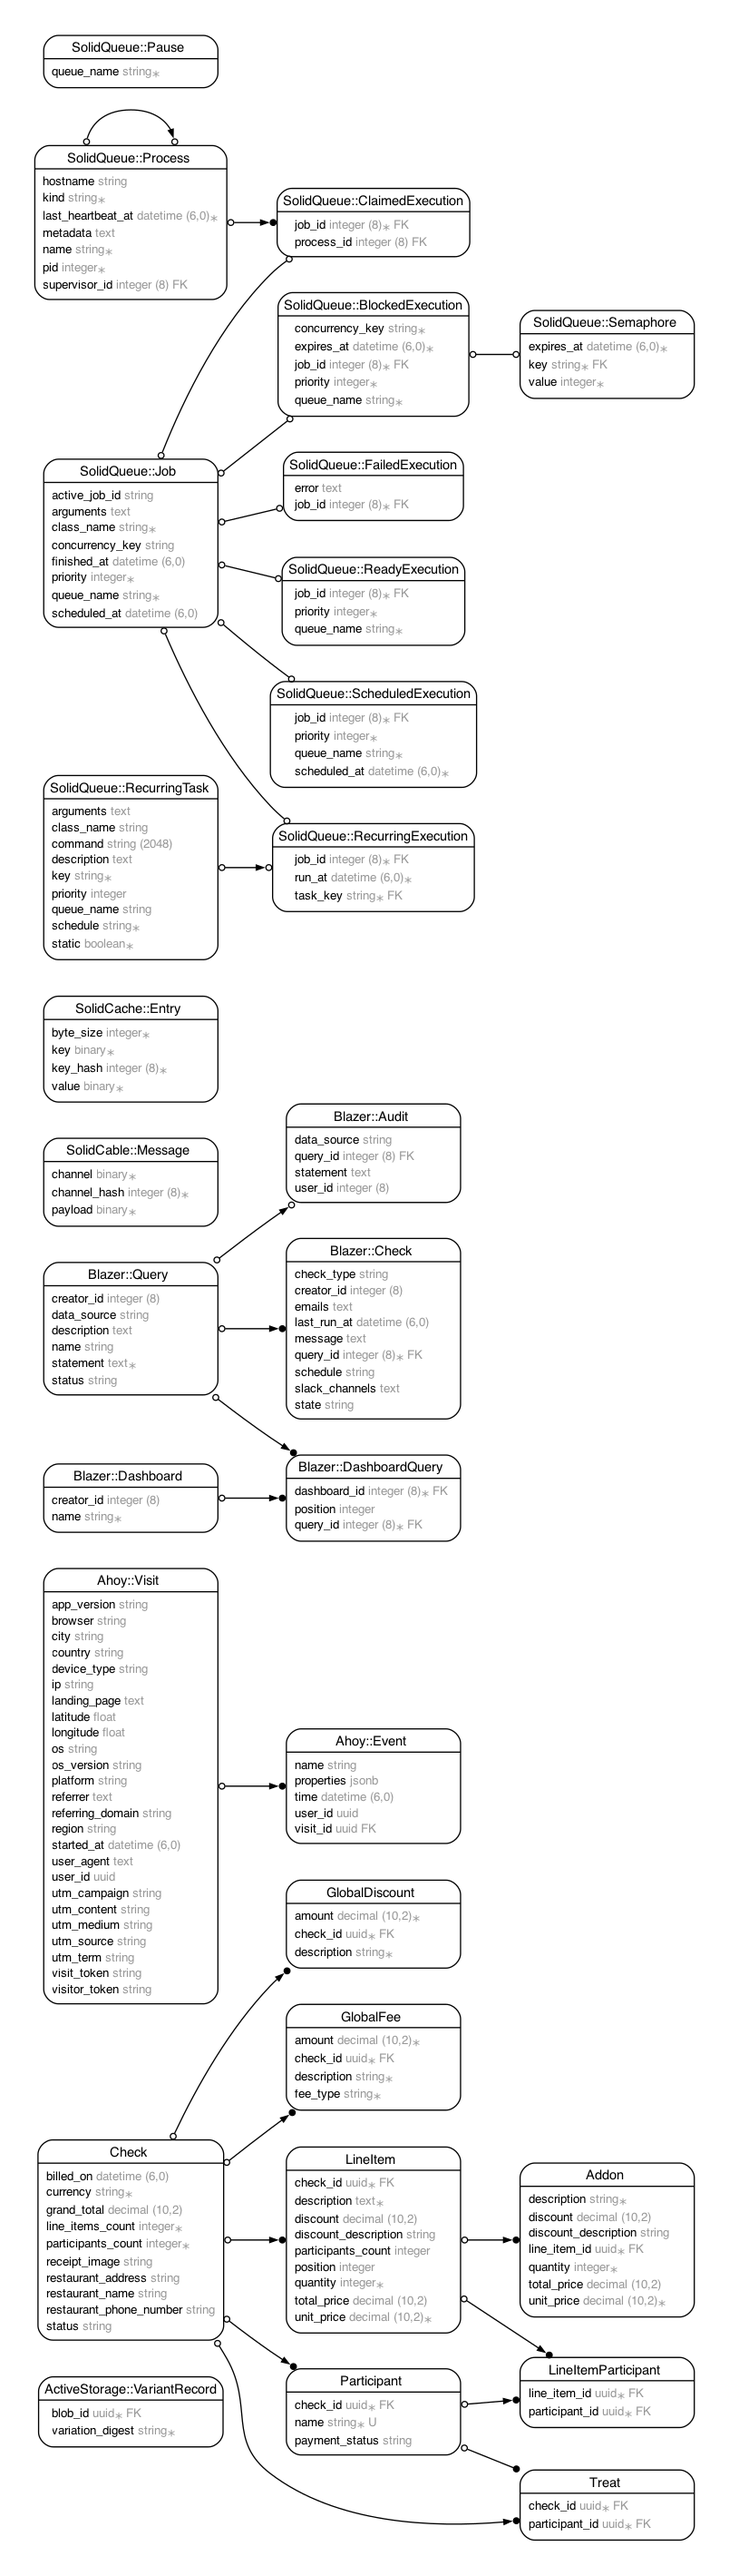
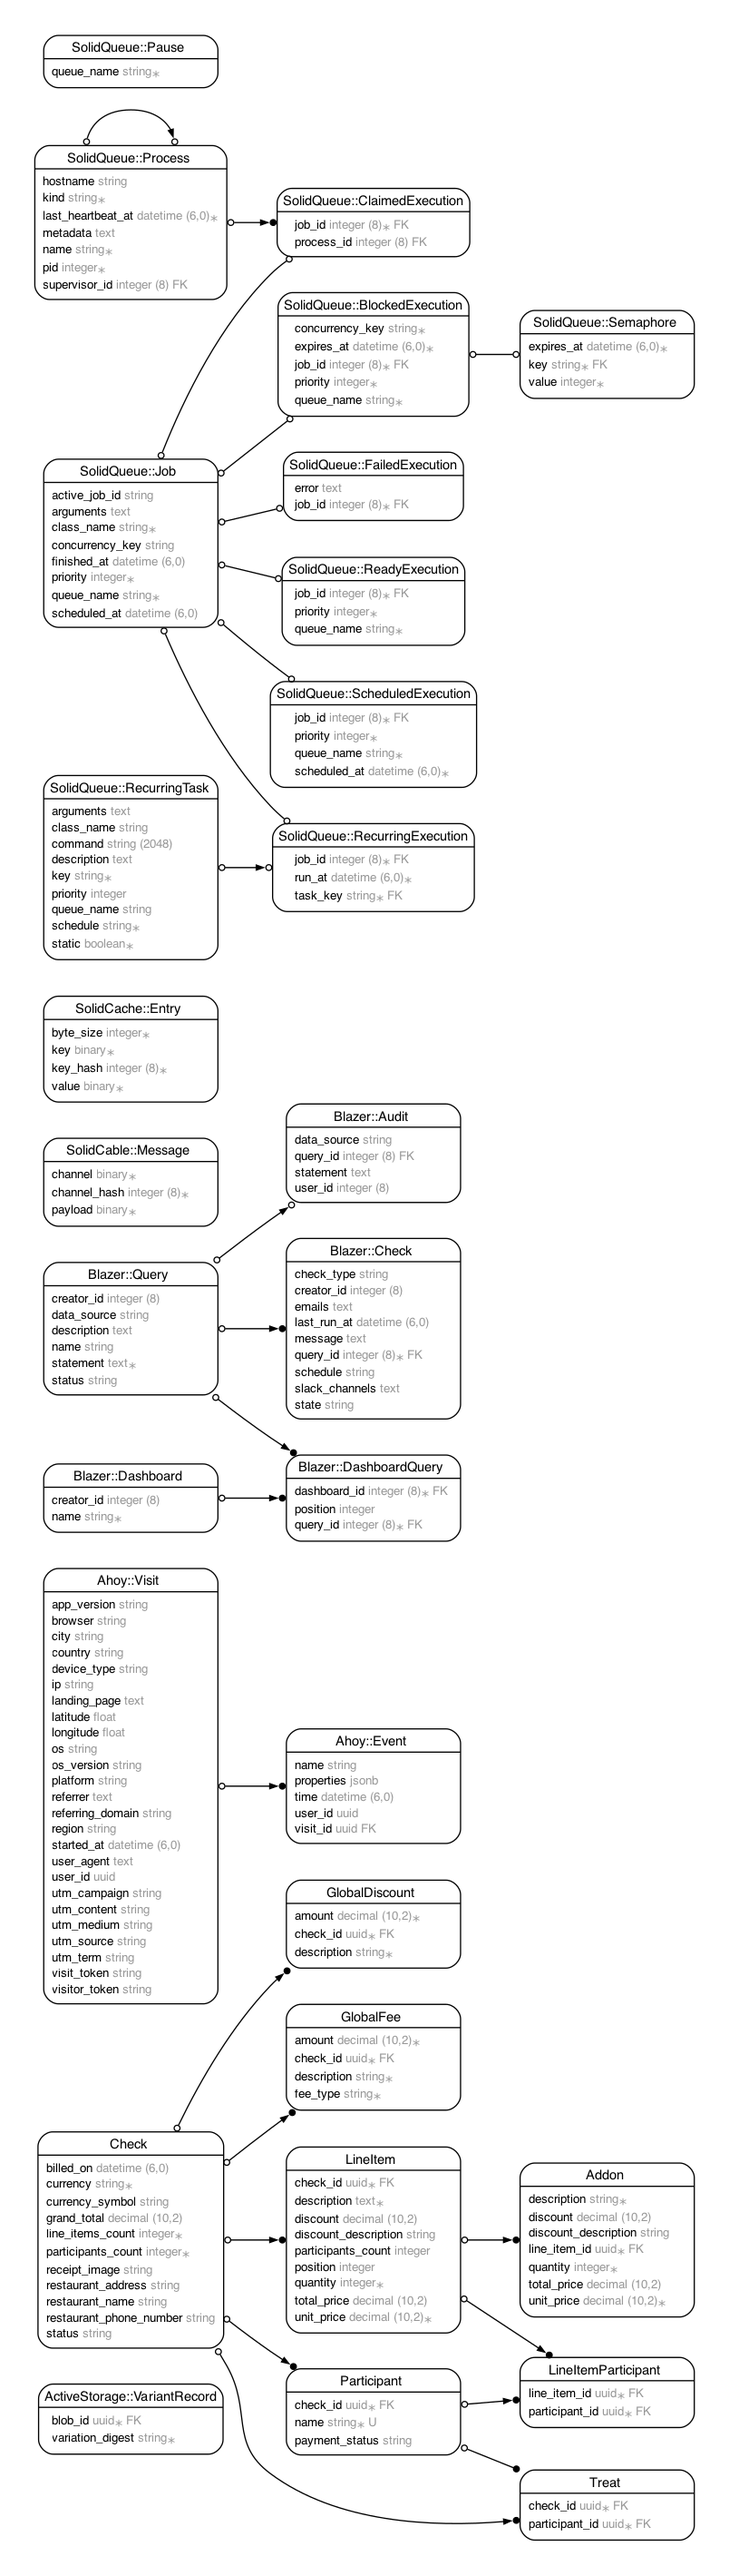
Add navbar and redesign homepage
- Add navbar with house icon and 'Lickety Split' branding
- Move check creation form to homepage
- Add cookie-based recently visited checks tracking
- Display recently visited checks as list group
- Redirect /checks/new to homepage

Changed region(s): [[0.0622, 0.8062, 0.3109, 0.9612]]

diff --git a/app/controllers/checks_controller.rb b/app/controllers/checks_controller.rb
@@ -2,11 +2,12 @@ class ChecksController < ApplicationController
   before_action :set_check, only: [:show, :edit, :update, :destroy, :toggle_zero_items]
 
   def index
-    @checks = Check.includes(:line_items, :global_fees, :global_discounts, :participants)
-      .order(created_at: :desc)
+    @check = Check.new
+    @recent_checks = load_recent_checks
   end
 
   def show
+    track_visited_check(@check.id)
     @show_zero_items = cookies[:show_zero_items] == "true"
     @line_items = @check.line_items.includes(:addons, :participants).order(:position)
     @global_fees = @check.global_fees
@@ -24,14 +25,15 @@ class ChecksController < ApplicationController
   end
 
   def new
-    @check = Check.new
+    redirect_to checks_path
   end
 
   def create
     if params[:receipt_image].blank?
       @check = Check.new
       @check.errors.add(:receipt_image, "is required")
-      return render :new, status: :unprocessable_entity
+      @recent_checks = load_recent_checks
+      return render :index, status: :unprocessable_entity
     end
 
     parser = ReceiptParser.new(params[:receipt_image].tempfile.path)
@@ -50,12 +52,14 @@ class ChecksController < ApplicationController
     if @check.save
       redirect_to @check, notice: "Check created! Now assign items to participants."
     else
-      render :new, status: :unprocessable_entity
+      @recent_checks = load_recent_checks
+      render :index, status: :unprocessable_entity
     end
   rescue => e
     @check = Check.new
     @check.errors.add(:base, "Failed to parse receipt: #{e.message}")
-    render :new, status: :unprocessable_entity
+    @recent_checks = load_recent_checks
+    render :index, status: :unprocessable_entity
   end
 
   def edit
@@ -78,6 +82,22 @@ class ChecksController < ApplicationController
 
   def set_check
     @check = Check.find(params[:id])
+  end
+
+  def track_visited_check(check_id)
+    visited_ids = JSON.parse(cookies[:visited_checks] || "[]")
+    visited_ids.delete(check_id.to_s)
+    visited_ids.unshift(check_id.to_s)
+    visited_ids = visited_ids.first(20)
+    cookies[:visited_checks] = {value: visited_ids.to_json, expires: 1.year.from_now}
+  end
+
+  def load_recent_checks
+    visited_ids = JSON.parse(cookies[:visited_checks] || "[]")
+    return [] if visited_ids.empty?
+
+    checks_by_id = Check.where(id: visited_ids).index_by { |c| c.id.to_s }
+    visited_ids.filter_map { |id| checks_by_id[id] }
   end
 
   def check_params

diff --git a/db/cable_schema.rb b/db/cable_schema.rb
@@ -10,7 +10,7 @@
 #
 # It's strongly recommended that you check this file into your version control system.
 
-ActiveRecord::Schema[8.0].define(version: 2025_11_27_010709) do
+ActiveRecord::Schema[8.0].define(version: 2025_11_27_030448) do
   # These are extensions that must be enabled in order to support this database
   enable_extension "pg_catalog.plpgsql"
   enable_extension "pgcrypto"
@@ -168,6 +168,7 @@ ActiveRecord::Schema[8.0].define(version: 2025_11_27_010709) do
     t.datetime "updated_at", null: false
     t.integer "line_items_count", default: 0, null: false
     t.integer "participants_count", default: 0, null: false
+    t.string "currency_symbol", default: "$"
     t.index ["status"], name: "index_checks_on_status"
   end
 

diff --git a/db/cache_schema.rb b/db/cache_schema.rb
@@ -10,7 +10,7 @@
 #
 # It's strongly recommended that you check this file into your version control system.
 
-ActiveRecord::Schema[8.0].define(version: 2025_11_27_010709) do
+ActiveRecord::Schema[8.0].define(version: 2025_11_27_030448) do
   # These are extensions that must be enabled in order to support this database
   enable_extension "pg_catalog.plpgsql"
   enable_extension "pgcrypto"
@@ -168,6 +168,7 @@ ActiveRecord::Schema[8.0].define(version: 2025_11_27_010709) do
     t.datetime "updated_at", null: false
     t.integer "line_items_count", default: 0, null: false
     t.integer "participants_count", default: 0, null: false
+    t.string "currency_symbol", default: "$"
     t.index ["status"], name: "index_checks_on_status"
   end
 

diff --git a/db/queue_schema.rb b/db/queue_schema.rb
@@ -10,7 +10,7 @@
 #
 # It's strongly recommended that you check this file into your version control system.
 
-ActiveRecord::Schema[8.0].define(version: 2025_11_27_010709) do
+ActiveRecord::Schema[8.0].define(version: 2025_11_27_030448) do
   # These are extensions that must be enabled in order to support this database
   enable_extension "pg_catalog.plpgsql"
   enable_extension "pgcrypto"
@@ -168,6 +168,7 @@ ActiveRecord::Schema[8.0].define(version: 2025_11_27_010709) do
     t.datetime "updated_at", null: false
     t.integer "line_items_count", default: 0, null: false
     t.integer "participants_count", default: 0, null: false
+    t.string "currency_symbol", default: "$"
     t.index ["status"], name: "index_checks_on_status"
   end
 
